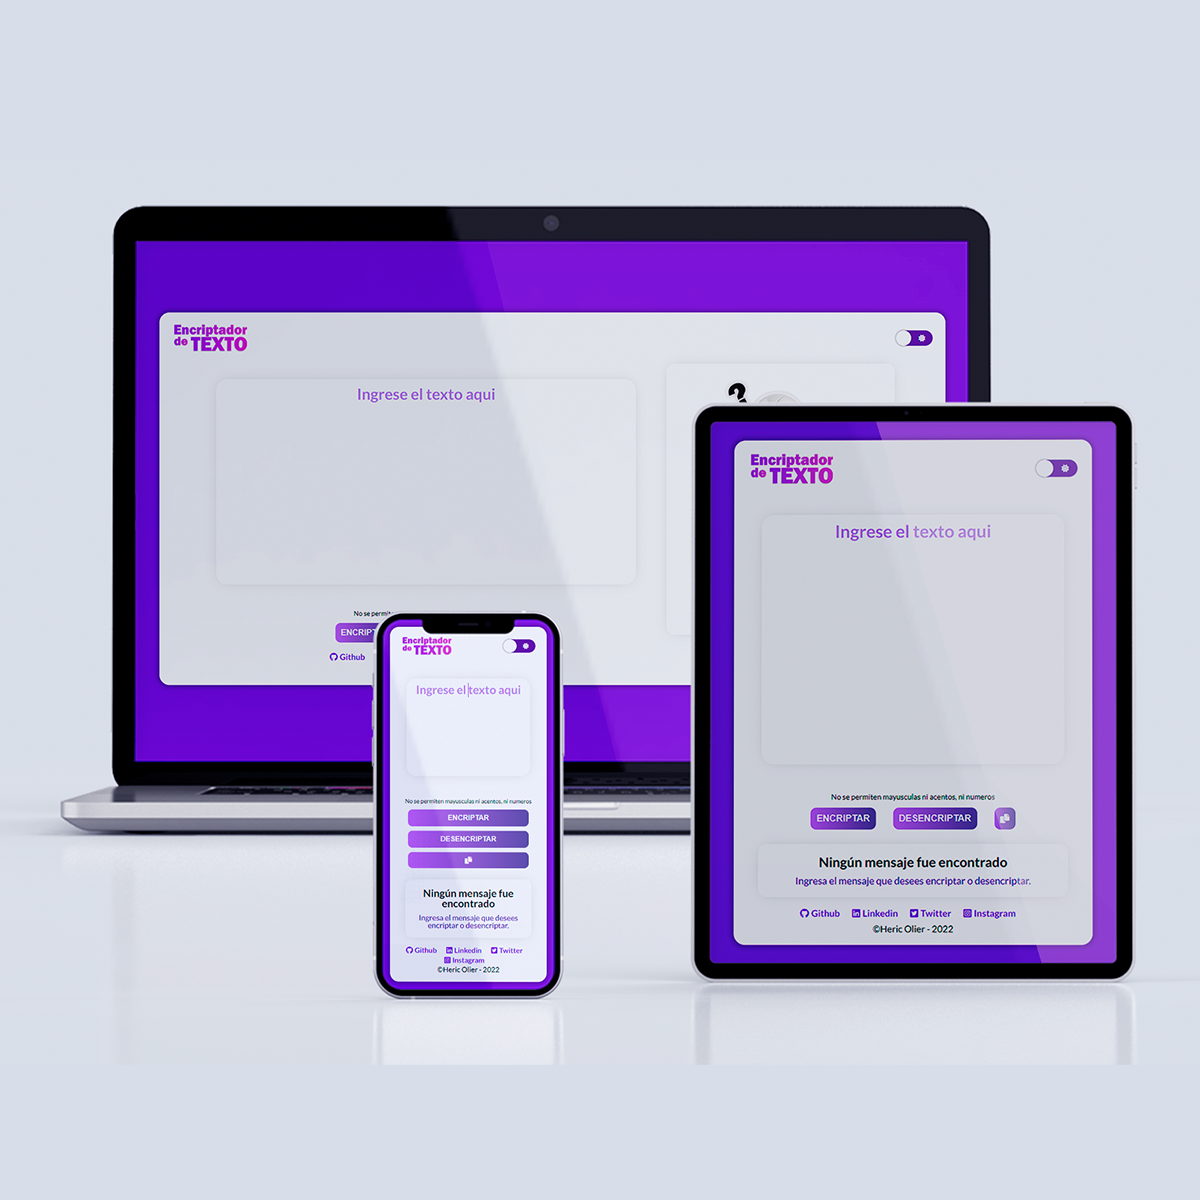
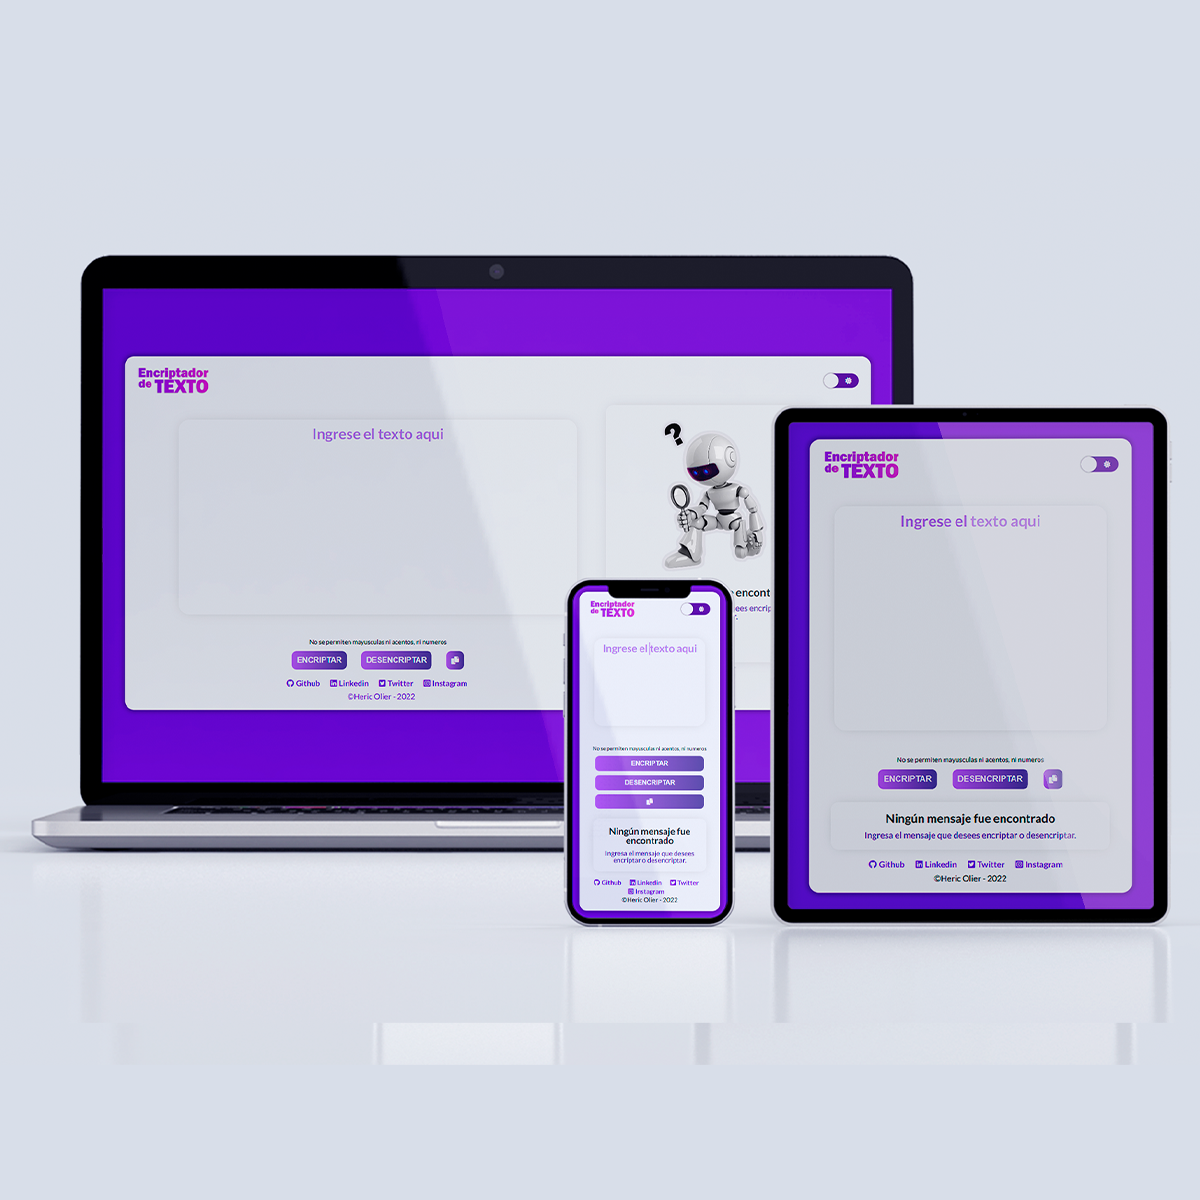
Update Projects Section

Changed region(s): [[0.0, 0.1542, 0.9867, 0.8325], [0.7092, 0.4317, 0.8633, 0.4625]]

diff --git a/css/style.css b/css/style.css
@@ -413,9 +413,28 @@ span,
 }
 
 .projects__btn {
+  width: 100%;
   display: flex;
   justify-content: space-between;
   align-items: center;
+  padding: 0 30px 30px 30px;
   position: absolute;
   bottom: 0;
+}
+
+.projects__btn a {
+  display: flex;
+  justify-content: center;
+  align-items: center;
+  width: 48%;
+  height: 49px;
+  border-radius: 10px;
+  border: 3px solid var(--color-background-dark);
+  font-size: 21px;
+  font-weight: 400;
+  background-color: var(--color-background-light);
+  color: var(--color-primary);
+  cursor: pointer;
+  text-decoration: none;
+  transition: all 0.17s ease-in-out;
 }

diff --git a/css/responsive.css b/css/responsive.css
@@ -161,6 +161,12 @@
     flex-direction: column;
     justify-content: center;
   }
+
+  .projects__btn a {
+    width: 49%;
+    font-size: 17px;
+    height: 41px;
+  }
 }
 
 @media screen and (max-width: 768px) {
@@ -277,4 +283,14 @@
     max-width: 320px;
     height: 320px;
   }
+
+  .projects__card h3 {
+    font-size: 25px;
+    margin-top: 20px;
+  } 
+
+  .projects__btn {
+    padding: 0 15px 15px 15px; 
+  }
+  
 }
